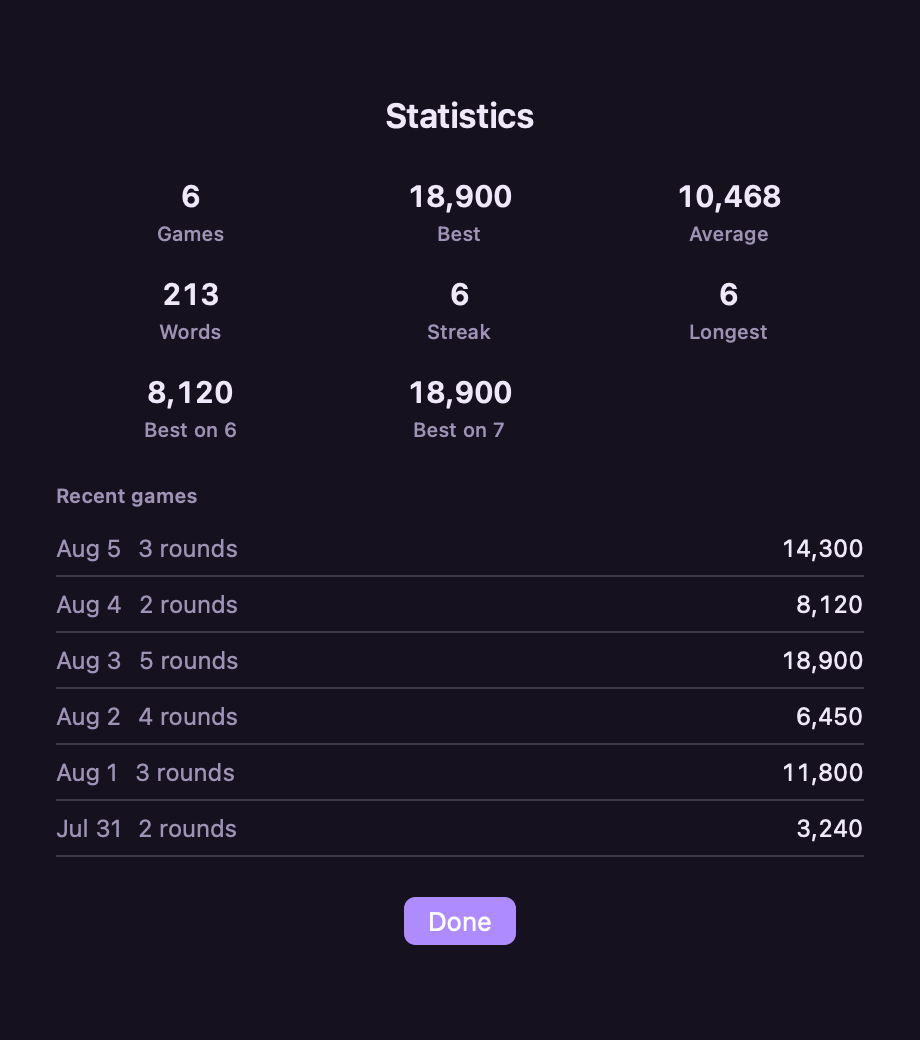
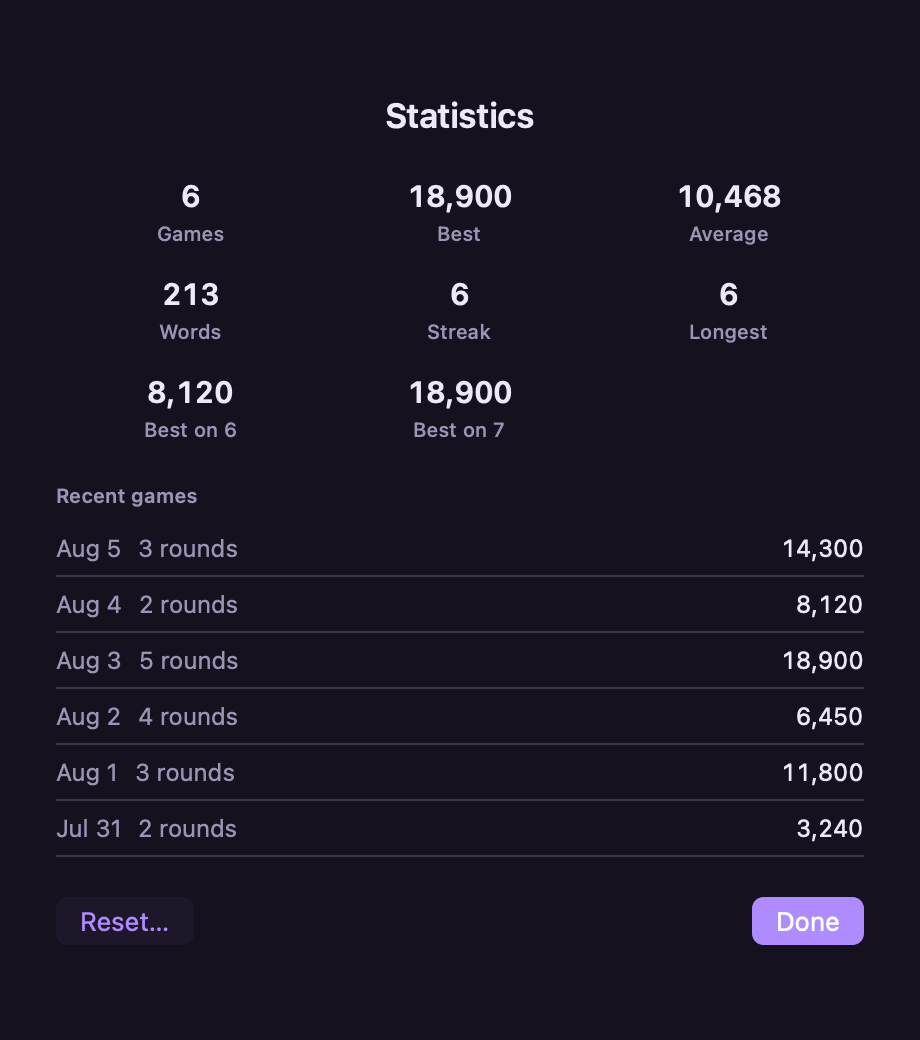
Add a confirmed statistics reset
The stats screen had no way to clear itself; the only route was deleting
~/Library/Application Support/Twist/history.json by hand.

Reset sits next to Done and appears only when there is something to
delete. It confirms first, naming the number of games, because the history
is the one thing in the app that cannot be recreated by playing again.

clear() removes the file rather than writing an empty array, so nothing is
left behind to half-read. GameModel also marks the current sitting as
banked, so an in-progress game is not written into a history just cleared.

Changed region(s): [[0.4261, 0.8615, 0.5783, 0.9231], [0.7913, 0.8615, 0.9435, 0.9231], [0.0913, 0.8615, 0.1522, 0.8923]]

diff --git a/Sources/Twist/StatsView.swift b/Sources/Twist/StatsView.swift
@@ -49,7 +49,10 @@ struct GameOverView: View {
 /// Lifetime totals, reachable at any time from the menu.
 struct StatsView: View {
     let history: [GameRecord]
+    var onReset: (() -> Void)?
+
     @Environment(\.dismiss) private var dismiss
+    @State private var isConfirmingReset = false
 
     private var statistics: Statistics { Statistics(records: history) }
 
@@ -72,8 +75,27 @@ struct StatsView: View {
                 RecentGames(records: history)
             }
 
-            Button("Done") { dismiss() }
-                .keyboardShortcut(.defaultAction)
+            HStack {
+                if onReset != nil, !history.isEmpty {
+                    Button("Reset…", role: .destructive) { isConfirmingReset = true }
+                }
+                Spacer()
+                Button("Done") { dismiss() }
+                    .keyboardShortcut(.defaultAction)
+            }
+        }
+        .confirmationDialog(
+            "^[Delete \(history.count) recorded game](inflect: true)?",
+            isPresented: $isConfirmingReset,
+            titleVisibility: .visible
+        ) {
+            Button("Delete Statistics", role: .destructive) {
+                onReset?()
+                dismiss()
+            }
+            Button("Cancel", role: .cancel) {}
+        } message: {
+            Text("Scores, streaks and bests are erased. This cannot be undone.")
         }
         .padding(28)
         .foregroundStyle(Theme.textPrimary)

diff --git a/Tests/TwistKitTests/StatisticsTests.swift b/Tests/TwistKitTests/StatisticsTests.swift
@@ -154,3 +154,24 @@ private func record(
     #expect(record.wasTimed)
     #expect(record.score == session.bankedScore)
 }
+
+@Test func clearingRemovesTheHistoryFile() throws {
+    let url = FileManager.default.temporaryDirectory
+        .appendingPathComponent("twist-tests-\(UUID().uuidString)")
+        .appendingPathComponent("history.json")
+    defer { try? FileManager.default.removeItem(at: url.deletingLastPathComponent()) }
+
+    let store = HistoryStore(fileURL: url)
+    try store.append(record(daysAgo: 0, score: 5000))
+    #expect(store.load().count == 1)
+
+    try store.clear()
+    #expect(store.load().isEmpty)
+    // Gone, not emptied — nothing left to half-read.
+    #expect(!FileManager.default.fileExists(atPath: url.path))
+
+    // Clearing an already-clear history is not an error, and a later game still records.
+    try store.clear()
+    try store.append(record(daysAgo: 0, score: 100))
+    #expect(store.load().count == 1)
+}

diff --git a/Sources/TwistKit/HistoryStore.swift b/Sources/TwistKit/HistoryStore.swift
@@ -43,6 +43,13 @@ public struct HistoryStore: Sendable {
         try data.write(to: fileURL, options: .atomic)
     }
 
+    /// Deletes the history file outright rather than writing an empty array, so a reset
+    /// leaves nothing behind to half-read later.
+    public func clear() throws {
+        guard FileManager.default.fileExists(atPath: fileURL.path) else { return }
+        try FileManager.default.removeItem(at: fileURL)
+    }
+
     @discardableResult
     public func append(_ record: GameRecord) throws -> [GameRecord] {
         var records = load()

diff --git a/Sources/Twist/GameModel.swift b/Sources/Twist/GameModel.swift
@@ -253,6 +253,13 @@ final class GameModel {
         startClock()
     }
 
+    /// Wipes every recorded game, including the sitting in progress once it is banked.
+    func resetHistory() {
+        try? store.clear()
+        history = []
+        hasRecordedSession = true  // do not re-bank the current sitting into a cleared history
+    }
+
     /// Banks the sitting into the history. A sitting with no finished round is not a game.
     private func recordSession() {
         guard !hasRecordedSession, !session.completedRounds.isEmpty else { return }

diff --git a/Sources/Twist/Snapshot.swift b/Sources/Twist/Snapshot.swift
@@ -91,7 +91,7 @@ enum Snapshot {
                     scheme: scheme,
                     to: directory.appendingPathComponent("paused-\(name).png"))
                 try write(
-                    StatsView(history: modelWithHistory(lexicon: lexicon).history),
+                    StatsView(history: modelWithHistory(lexicon: lexicon).history, onReset: {}),
                     size: CGSize(width: 460, height: 520),
                     scheme: scheme,
                     to: directory.appendingPathComponent("stats-\(name).png"))

diff --git a/Sources/Twist/GameView.swift b/Sources/Twist/GameView.swift
@@ -47,7 +47,7 @@ struct GameView: View {
             GameOverView(model: model, onQuit: onQuit)
         }
         .sheet(isPresented: $showingStats) {
-            StatsView(history: model.history)
+            StatsView(history: model.history, onReset: { model.resetHistory() })
         }
         .onReceive(NotificationCenter.default.publisher(for: .showStatistics)) { _ in
             // Pause here rather than at the button, so the menu item and the shortcut stop the

diff --git a/Sources/Twist/AppModel.swift b/Sources/Twist/AppModel.swift
@@ -43,6 +43,12 @@ final class AppModel {
         history = store.load()
     }
 
+    /// Wipes every recorded game. Irreversible, so the UI confirms before calling it.
+    func resetHistory() {
+        try? store.clear()
+        history = []
+    }
+
     // MARK: - Persisted mode
 
     private static let clockKey = "ClockSeconds"  // 0 means untimed

diff --git a/Sources/Twist/StartView.swift b/Sources/Twist/StartView.swift
@@ -99,7 +99,7 @@ struct StartView: View {
         .frame(maxWidth: .infinity, maxHeight: .infinity)
         .background(Theme.background)
         .sheet(isPresented: $showingStats) {
-            StatsView(history: app.history)
+            StatsView(history: app.history, onReset: { app.resetHistory() })
         }
     }
 
